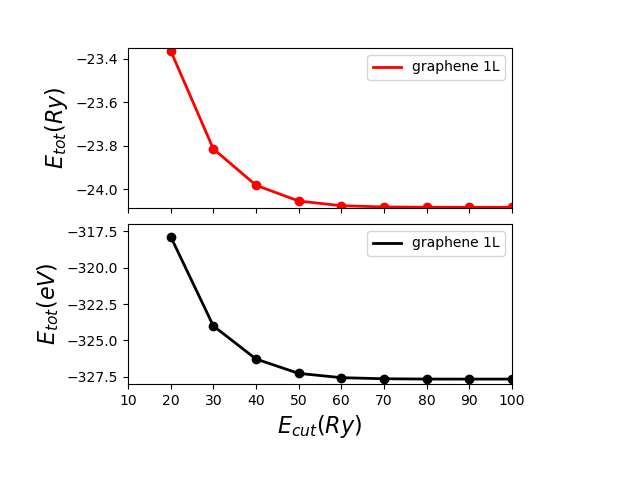
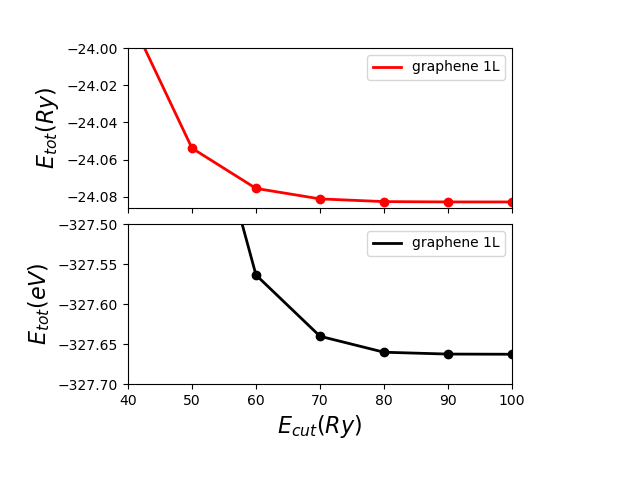
new files

diff --git a/C-1L/convergence/cutoff/Scripts/e_conv1.py b/C-1L/convergence/cutoff/Scripts/e_conv1.py
@@ -25,10 +25,10 @@ axs[1].plot(etot_vs_ecut[:,0],etot_vs_ecut[:,1]*13.6057039763,linewidth=2,color=
 axs[1].scatter(etot_vs_ecut[:,0],etot_vs_ecut[:,1]*13.6057039763,color='k')
 axs[1].legend(loc="upper right")
 axs[1].set_xlabel('$E_{cut}(Ry)$',fontsize=16)
-axs[0].set_xlim(10,100)
-axs[1].set_xlim(10,100)
-axs[0].set_ylim(-24.086,-23.35)
-axs[1].set_ylim(-328,-317)
+axs[0].set_xlim(40,100)
+axs[1].set_xlim(40,100)
+axs[0].set_ylim(-24.086,-24.)
+axs[1].set_ylim(-327.70,-327.50)
 
 plt.savefig('Etot_vs_ecut.png', format='png')
 plt.show()
